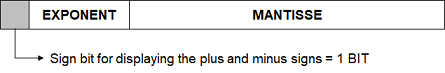
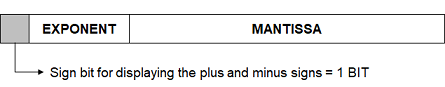
update variables pictures

Changed region(s): [[0.0, 0.0, 1.0, 0.5205], [0.0292, 0.7123, 0.8472, 0.9315]]

diff --git a/books/programmable_logic_controllers/chapter3/variables.md b/books/programmable_logic_controllers/chapter3/variables.md
@@ -217,7 +217,15 @@ The size of the exponent and mantissa is determined by the chosen data type:
 -	LREAL 	: Exponent = 11 BIT, Mantisse = 52 BIT
 
 The exponent is constructed according to the binary number system, but a shift has been applied, which means that the decimal value must be reduced by a starting value, namely:
--	REAL 	: Start value of 127 	: (0111 1111)<sub>2<sub/> 		= 0
--	LREAL 	: Start value of 1023 	: (0011 1111 1111)<sub>2<sub/> 	= 0
+-	REAL 	: Start value of 127 	= 0 = (0111 1111)<sub>2<sub/> 		
+-	LREAL 	: Start value of 1023 	= 0 = (0011 1111 1111)<sub>2<sub/> 	
 
 The mantissa is constructed from left to right and always starts with the binary value 1, which is not present in the whole (called the hidden BIT).
+
+The sign bit is 1 BIT in size and has the following meaning:
+-	FALSE / 0	= Value 1
+-	TRUE / 1	= Value -1
+
+The numerical value of the ANY_REAL number is determined using the following formula:
++/- MANTISSA x 2 <sup>+/- EXPONENT<sup/>
+
